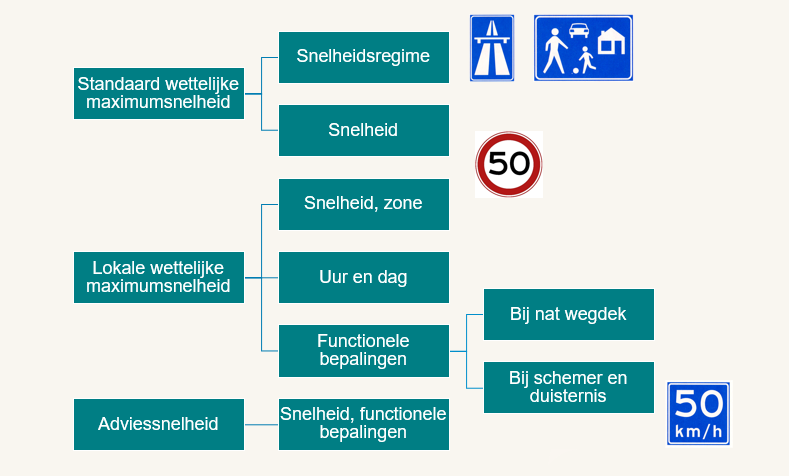
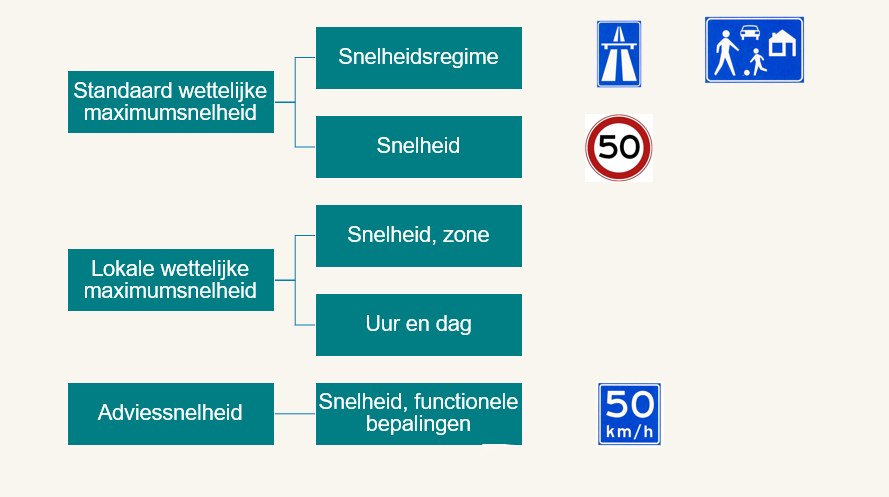
WIP documentation

Changed region(s): [[0.0608, 0.0294, 0.943, 0.9706]]

diff --git a/docs/howtodatamanagement/hoofdstukken/6.md b/docs/howtodatamanagement/hoofdstukken/6.md
@@ -1,27 +1,29 @@
 # B-Voorrang 
 
 <figure>
-<img src="./hoofdstukken/media/verkeersmaatregelen-voorrang.PNG"  style="width:100%; max-width:none;">
+<img src="./hoofdstukken/media/verkeersmaatregelen-voorrrang.PNG"  style="width:100%; max-width:none;">
 <figcaption>De verkeersmaatregelen rondom voorrang</caption>
 </figure>
 
 
+Om een voorrangskruispunt te kunnen modelleren zijn meerdere maatregelen nodig:
 
-
-## Voorrang verlenen
-Op een ondergeschikte weg begint of eindigt het [=NWB-Wegvak=] op een [=NWB-junctie=] waar voorrang gegeven moet worden. Door bij de verkeersmaatregel "voorrang verlenen" op te nemen in welke rijrichting deze geldt, is voor een computer duidelijk waar voorrang verleend moet worden.
-
-Bij voorrang verlenen worden de volgende aspecten altijd toegevoegd:
-
-
-Bij voorrang verlenen worden de volgende aspecten vaak toegevoegd:
+* Voorrangsweg - om de voorrangsweg aan te duiden
+* WaarschuwingKruising - om het type kruising aan te duiden
+* Ondergeschikte weg - om aan te geven welke wegen ondergeschikt zijn op de kruising. 
 
 
 ## Voorrangsweg
-De verkeersmaatregel "Voorrangsweg" geldt voor het hele NWB-wegvak in beide richtingen. 
 
-Op de voorrangsweg begint of eindigt het [=NWB-Wegvak=] op een [=NWB-junctie=]; de waarschuwing "Voorrangskruispunt" geldt voor één richting, per definitie op het einde van het wegvak. Daarbij kan worden aangegeven of er een ondergeschikte weg van links en/of rechts komt.
+Bij de Voorrangsweg worden de volgende aspecten altijd toegevoegd:
+* VoorrangIndicatie (Kruising of Tegenliggers)
 
-### Tegenliggend verkeer
 
-De verkeersmaatregelen voor voorrang kunnen ook gebruikt worden voor tegenliggend verkeer.  
+
+## OndergeschikteWeg
+
+
+Bij OndergeschikteWeg worden de volgende aspecten altijd toegevoegd:
+* VoorrangIndicatie (Kruising of Tegenliggers)
+
+

diff --git a/docs/howtodatamanagement/hoofdstukken/9.md b/docs/howtodatamanagement/hoofdstukken/9.md
@@ -9,7 +9,7 @@
 </figure>
 
 
-Bij een parkeerverbod Wordt het volgende aspect standaard toegevoegd:
+Bij een parkeermaatregel wordt het volgende aspect standaard toegevoegd:
 * Parkeerindicatie (Ja/Nee)
 <br><br>
 Bij een parkeerverbod worden de volgende aspecten vaak toegevoegd:
@@ -25,12 +25,13 @@ Bij een parkeerverbod worden de volgende aspecten vaak toegevoegd:
 Merk op, dat parkeervakken nog geen onderdeel zijn van het wegenbestand. Zolang dat nog niet zo is, wordt bijvoorbeeld de locatie van het parkeervak voor het opladen van electrische voertuigen aangeduid door een rijrichting en een [werkingslengte](#werkingslengte) te gebruiken. 
 
 
-## Verbod op stilstaan
+## VerbodOpStilstaan
 
 <figure style="float: left; margin: 0 15px 15px 0; width: 100px">
 <img src="./hoofdstukken/media/verbodopstilstaan.PNG" alt="Bord verbod op stilstaan">
 <figcaption>Het bord verbod op stilstaan</figcaption>
 </figure>
 
-Bij een verbod op stilstaan zijn geen standaard aspecten die altijd worden toegevoegd.
 
+Bij een verbod op stilstaan wordt het volgende aspect standaard toegevoegd:
+* StilstaanIndicatie  (Ja/Nee)

diff --git a/docs/howtodatamanagement/hoofdstukken/5.md b/docs/howtodatamanagement/hoofdstukken/5.md
@@ -1,7 +1,7 @@
 # A-Snelheid
 
 <figure>
-<img src="./hoofdstukken/media/snelheid.png"  style="width:100%; max-width:none;">
+<img src="./hoofdstukken/media/snelheid.PNG"  style="width:100%; max-width:none;">
 <figcaption>De verkeersmaatregelen rondom snelheid en de bijbehorende aspecten</caption>
 </figure>
 
@@ -42,7 +42,7 @@ Bij de [=lokale wettelijke maximumsnelheid=] worden de volgende aspecten vaak to
 * [StartTijd](#dag-en-uur)
 * [EindTijd](#dag-en-uur)
 * [Zone](#zone)
-* BijNatWegdek
+* Wegconditie (BijNatWegdek)
 
 
 
